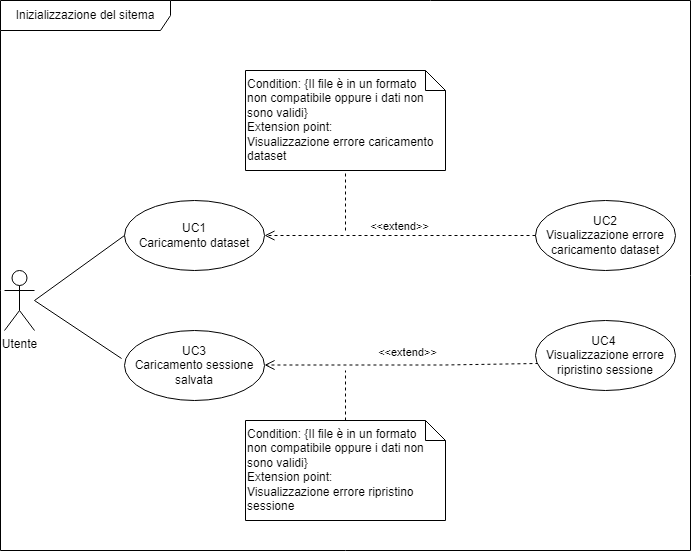
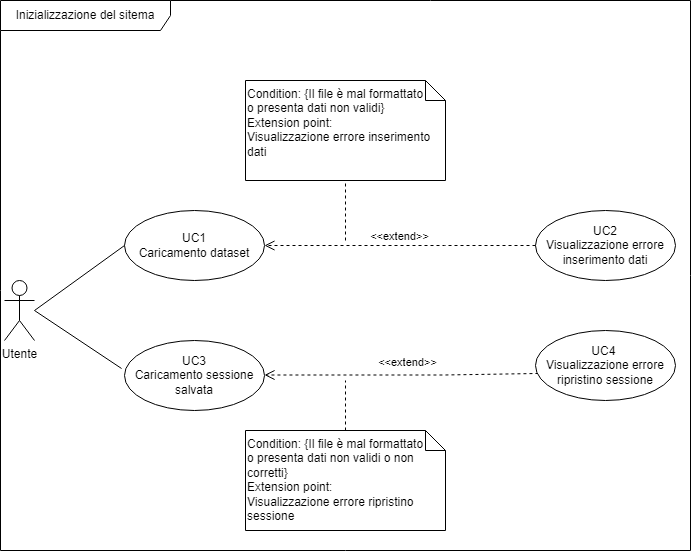
Fix c.u. descrizione introduzione e modifiche + uml

diff --git a/src/documenti/esterni/AdR/contenuti/casi_uso.tex b/src/documenti/esterni/AdR/contenuti/casi_uso.tex
@@ -1,6 +1,4 @@
 \chapter{Casi d'Uso}
-
-\todo{rivedere la numerazione dei casi d'uso}
 \section*{Inizializzazione sistema}
 
 \begin{figure}[h]
@@ -27,14 +25,15 @@
     \end{enumerate}
 \end{itemize}
 
-\section{UC2 - Gestione errore caricamento dataset}
+\section{UC2 - Visualizzazione errore inserimento dati}
 \begin{itemize}
   \item \textbf{Attore Primario:} utente;
-  \item \textbf{Precondizioni:} l'utente carica un file dataset dove i dati non sono validi o il formato del file non è corretto;
-  \item \textbf{Postcondizioni:} l'utente visualizza un messaggio di errore.
+  \item \textbf{Precondizioni:} l’utente carica un file CSV contenente i dati da analizzare mal formattato o
+  che presenta dati non validi;
+  \item \textbf{Postcondizioni:} l'utente visualizza un messaggio di errore e i dati non vengono caricati;
   \item \textbf{Scenario Principale:}
   \begin{enumerate}
-    \item L'utente visualizza un messaggio di errore esplicativo.
+    \item l'utente visualizza un messaggio di errore esplicativo;
   \end{enumerate}
 \end{itemize}
 
@@ -59,14 +58,15 @@
     \end{enumerate}
 \end{itemize}
 
-\section{UC4 - Gestione errore ripristino sessione}
+\section{UC4 - Visualizzazione errore ripristino sessione}
 \begin{itemize}
   \item \textbf{Attore Primario:} utente;
-  \item \textbf{Precondizioni:} l'utente carica un file di sessione non valido o con un formato non valido;
-  \item \textbf{Postcondizioni:} l'utente visualizza un messaggio di errore.
+  \item \textbf{Precondizioni:} l’utente carica un file JSON contenente i dati da analizzare mal formattato o
+  che presenta dati non validi o non corretti;
+  \item \textbf{Postcondizioni:} l'utente visualizza un messaggio di errore e i dati non vengono caricati;
   \item \textbf{Scenario Principale:}
   \begin{enumerate}
-    \item L'utente visualizza un messaggio di errore esplicativo.
+    \item l'utente visualizza un messaggio di errore esplicativo;
   \end{enumerate}
 \end{itemize}
 
@@ -107,12 +107,12 @@
  \end{itemize}
 
 
-\section{UC7 - Personalizzazione Visualizzazione}
+\section{UC7 - Personalizzazione visualizzazione}
 
 \begin{figure}[h]
   \centering
   \includegraphics[width=\textwidth]{uc7.png}
-  \caption{UC7 - Personalizzazione Visualizzazione}
+  \caption{UC7 - Personalizzazione visualizzazione}
 \end{figure}
 
 \begin{itemize}
@@ -139,7 +139,7 @@
     \end{itemize}
 \end{itemize}
 
-\section{UC8 - Errore scelta filtri}
+\section{UC8 - Visualizzazione errore scelta filtri}
 \begin{itemize}
   \item \textbf{Descrizione}: l'utente sceglie dei filtri non validi;
   \item \textbf{Attore primario}: utente;
@@ -151,7 +151,7 @@
     \end{itemize}
 \end{itemize}
 
-\section{UC9 - Errore scala degli assi}
+\section{UC9 - Visualizzazione errore scala degli assi}
 \begin{itemize}
   \item \textbf{Descrizione}: l'utente sceglie una scala non valida;
   \item \textbf{Attore primario}: utente;
@@ -163,16 +163,7 @@
     \end{itemize}
 \end{itemize}
 
-\iffalse
-\section{Accesso ai manuali}
-\begin{figure}[h]
-  \centering
-  \includegraphics[width=0.6\textwidth]{UC_manuali}
-  \caption{UC6 UC7 - Accesso ai manuali utente e sviluppatore}
-\end{figure}
-\fi
-
-\section{UC10 - Accesso al Manuale Utente}
+\section{UC10 - Accesso al manuale utente}
 \begin{itemize}
   \item \textbf{Descrizione}: l'utente che ha un dubbio o vuole più informazioni sull'utilizzo dell'applicazione, deve avere accesso rapido al manuale utente;
   \item \textbf{Attore primario}: utente;
@@ -185,23 +176,7 @@
   \end{enumerate}
 \end{itemize}
 
-\iffalse
-\section{UC - Accesso al Manuale Sviluppatore}
-\begin{itemize}
-  \item \textbf{Descrizione}: essendo Login Warrior un progetto open source, un qualsiasi sviluppatore deve avere accesso ad un manuale sviluppatore (sia per manutenzione, sia per estendere il software);
-  \item \textbf{Attore primario}: sviluppatore;
-  \item \textbf{Precondizioni}: nessuna, l'opzione di accesso ai manuali deve essere sempre disponibile allo sviluppatore;
-  \item \textbf{Postcondizioni}: viene visualizzato il manuale sviluppatore;
-  \item \textbf{Scenario principale}:
-  \begin{enumerate}
-    \item Lo sviluppatore seleziona il "manuale sviluppatore";
-    \item Viene visualizzato il manuale sviluppatore.
-  \end{enumerate}
-\end{itemize}
-\fi
-
-\section{UC11 - Salvataggio Sessione}
-
+\section{UC11 - Salvataggio sessione}
 \begin{itemize}
   \item \textbf{Descrizione:} l'utente salva la sessione di lavoro;
   \item \textbf{Attore primario:} utente;
@@ -210,7 +185,7 @@
   \item \textbf{Scenario principale:}
   \begin{enumerate}
     \item L'utente sta lavorando sull'applicazione;
-    \item L'utente seleziona la funzionalità ``Salvataggio Sessione'';
+    \item L'utente seleziona la funzionalità ``Salvataggio sessione'';
     \item L'utente salva la sessione corrente.
   \end{enumerate}
 \end{itemize}

diff --git a/src/documenti/esterni/AdR/contenuti/modifiche.tex b/src/documenti/esterni/AdR/contenuti/modifiche.tex
@@ -13,16 +13,16 @@
     v0.0.13           & 11/02/2022    & \aCapo{Lorenzo Onelia\\Mattia Zanellato}   & Fix casi d'uso                                  \\ \hline
     v0.0.12           & 04/02/2022    & \aCapo{Marco Mamprin\\Mattia Zanellato}    & Fix minori                                      \\ \hline
     v0.0.11           & 14/01/2022    & \aCapo{Emanuele Pase\\Riccardo Contin}     & Modifiche sezioni UC3 e UC4                     \\ \hline
-    v0.0.10           & 14/01/2022    & \aCapo{Marco Mamprin\\Riccardo Contin}     & Modifiche sezione UC "Manuali"                  \\ \hline
+    v0.0.10           & 14/01/2022    & \aCapo{Marco Mamprin\\Riccardo Contin}     & Modifiche sezione UC Manuali                    \\ \hline
     v0.0.9            & 11/01/2022    & \aCapo{Emanuele Pase\\Mattia Zanellato}    & Aggiunta sezione UC2                            \\ \hline
     v0.0.8            & 08/01/2022    & \aCapo{Emanuele Pase\\Marco Mazzucato}     & Aggiunta sezione UC4                            \\ \hline
     v0.0.7            & 07/01/2022    & \aCapo{Mattia Zanellato\\Emanuele Pase}    & Creata struttura del capitolo Requisiti         \\ \hline
-    v0.0.6            & 07/01/2022    & \aCapo{Lorenzo Onelia\\Marco Mamprin}      & Aggiunta sezione `Descrizione'                  \\ \hline
+    v0.0.6            & 07/01/2022    & \aCapo{Lorenzo Onelia\\Marco Mamprin}      & Aggiunta sezione Descrizione                    \\ \hline
     v0.0.5            & 04/01/2022    & \aCapo{Emanuele Pase\\Mattia Zanellato}    & Aggiunta sezione UC3                            \\ \hline
     v0.0.4            & 04/01/2022    & \aCapo{Mattia Zanellato\\Riccardo Contin}  & Aggiunta sezione UC6                            \\ \hline
-    v0.0.3            & 04/01/2022    & \aCapo{Marco Mazzucato\\Riccardo Contin}   & Aggiunta sezione `Inizializzazione del sistema' \\ \hline
+    v0.0.3            & 04/01/2022    & \aCapo{Marco Mazzucato\\Riccardo Contin}   & Aggiunta sezione Inizializzazione del sistema   \\ \hline
     v0.0.2            & 03/01/2022    & \aCapo{Marco Mamprin\\Emanuele Pase}       & Stesura Introduzione                            \\ \hline
-    v0.0.1            & 30/12/2021    & \aCapo{Marko Vukovic\\Emanuele Pase}       & Aggiunto UC "Manuali"                           \\ \hline
+    v0.0.1            & 30/12/2021    & \aCapo{Marko Vukovic\\Emanuele Pase}       & Aggiunto UC Manuali                             \\ \hline
     v0.0.0            & 28/12/2021    & \aCapo{Marco Mamprin\\Emanuele Pase}       & Creata prima struttura del documento            \\ \hline
 
   \end{tabular}

diff --git a/src/documenti/esterni/AdR/contenuti/introduzione.tex b/src/documenti/esterni/AdR/contenuti/introduzione.tex
@@ -22,16 +22,10 @@ Per ogni caso d'uso troviamo:
 
 \subsection{Attori}
 Il prodotto verrà utilizzato solo per scopo di sorveglianza interno, senza il bisogno di figure particolari per il suo funzionamento
-come un amministratore o un utente registrato, perciò saranno presenti solo due attori all'interno del sistema:
+come un amministratore o un utente registrato, perciò sarà presente solo un attore all'interno del sistema:
 \begin{itemize}
   \item \textbf{Utente}, che avrà accesso a tutte le funzionalità del prodotto;
-  \item \textbf{Sviluppatore}, un utente interessato ad accedere al codice del software, per apportare modifiche e aggiunte.
-\end{itemize} 
-\begin{figure}[h]
-  \centering
-  \includegraphics[width=0.3\textwidth]{attori}
-  \caption{Attori del sistema}
-\end{figure}
+\end{itemize}
 
 \section{Riferimenti}
 \subsection{Riferimenti normativi}

diff --git a/src/documenti/esterni/AdR/contenuti/descrizione.tex b/src/documenti/esterni/AdR/contenuti/descrizione.tex
@@ -7,6 +7,3 @@ Il prodotto deve essere in grado di visualizzare dati a molte dimensioni sotto f
 L'applicazione si occupa di analizzare uno o più set di dati e di restituire dei grafici che risultano essere più comprensibili e significativi.
 Con l'utilizzo di grafici appositamente creati e in base a filtri selezionati dall'utente che permettono varie visualizzazioni, è possibile estrapolare informazioni che in un primo momento potevano essere poco chiare o nascoste.
 È possibile anche salvare le informazioni in un file scaricabile in formato JSON, in modo da poter successivamente ripristinare la sessione nel punto in cui era stata interrotta.
-
-\section{Vincolo}
-\todo{Da discutere e quindi poi implementare}
